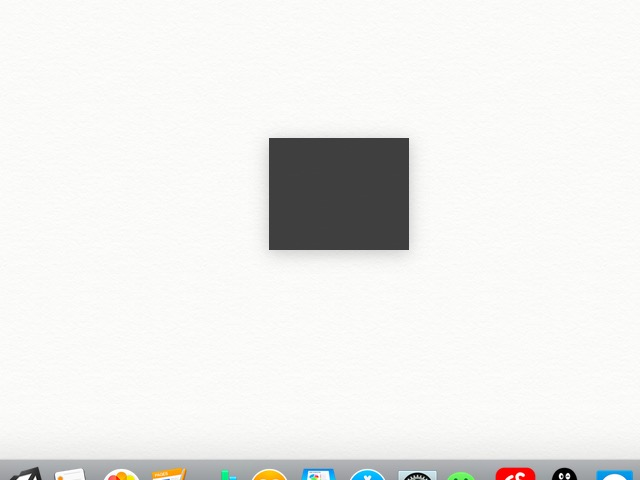
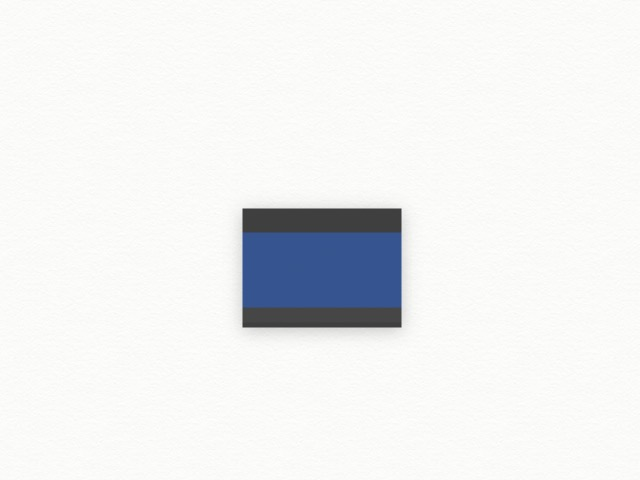
homography estimate

Changed region(s): [[0.375, 0.2812, 0.6562, 0.7188], [0.0, 0.9375, 1.0, 1.0]]

diff --git a/src/main.cpp b/src/main.cpp
@@ -1,31 +1,44 @@
 #include <opencv2/opencv.hpp>
 #include <ceres/ceres.h>
+#include <sophus/se3.hpp>
 
 #include "Viz.h"
 #include "Segment.h"
 #include "PoseEstimate.h"
 #include "Region.h"
+#include "Model.h"
 
 
 using namespace cv;
 using namespace std;
+using namespace Sophus;
 
 int main()
 {
     Mat img = imread("../origin.png");
     imshow("result",img);
 
-    int x_before = 265;
-    int y_before = 135;
-    int l_x_b = 139;
-    int l_y_b = 111;
+    int x_before = 240;
+    int y_before = 200;
+    int l_x_b = 159;
+    int l_y_b = 130;
 
     double initial_pose[2] = {(double)x_before,(double)y_before};
 
+    Model m;
+    m.SetIntrinsic();
+    Matrix4d pv;
+    pv<<    1,0,0,0,
+            0,1,0,0.25,
+            0,0,1,2.9,
+            0,0,0,1;
+    SE3d sse(pv);
+    Mat out0 = img.clone();
+    m.Display(out0,sse);
+    imshow("result1",out0);
 
-    Mat out1 = img.clone();
-    draw(out1,x_before,y_before,l_x_b,l_y_b);
-    imshow("result1",out1);
+
+
 
     Mat mask = Mat::zeros(img.rows,img.cols,CV_8U);
     Rect mm(x_before,y_before,l_x_b,l_y_b);
@@ -45,15 +58,11 @@ int main()
 
     vector<Point> sample_points;// = {{0,0},{l_x_b,0},{0,l_y_b},{l_x_b,l_y_b}};
 
-    vector<Point> temp;
-    BresenhamCircle(10,temp);
-    sample_points.insert(sample_points.end(), temp.begin(),temp.end());
-    BresenhamCircle(Point{l_x_b,0},10,temp);
-    sample_points.insert(sample_points.end(), temp.begin(),temp.end());
-    BresenhamCircle(Point{l_x_b,l_y_b},10,temp);
-    sample_points.insert(sample_points.end(), temp.begin(),temp.end());
-    BresenhamCircle(Point{0,l_y_b},10,temp);
-    sample_points.insert(sample_points.end(), temp.begin(),temp.end());
+    //here is some bp
+    BresenhamCircle(10,sample_points);
+    BresenhamCircle(Point{l_x_b,0},10,sample_points);
+    BresenhamCircle(Point{l_x_b,l_y_b},10,sample_points);
+    BresenhamCircle(Point{0,l_y_b},10,sample_points);
 
     vector<Point2d> lft,rgt;
     lft.emplace_back(0,0);
@@ -68,13 +77,15 @@ int main()
     H = H/H.at<double>(8);
 
 
-//    for (int k = 0; k< 10; ++k)
+//    double n = 100;
+//    for (int k = 0; k< n; ++k)
 //    {
-//        sample_points.emplace_back(0,l_y_b*k/10.0);
-//        sample_points.emplace_back(l_x_b,l_y_b*k/10.0);
-//        sample_points.emplace_back(l_x_b*k/10.0,0);
-//        sample_points.emplace_back(l_x_b*k/10.0,l_y_b);
+//        sample_points.emplace_back(0,l_y_b*k/n);
+//        sample_points.emplace_back(l_x_b,l_y_b*k/n);
+//        sample_points.emplace_back(l_x_b*k/n,0);
+//        sample_points.emplace_back(l_x_b*k/n,l_y_b);
 //    }
+    cout<<sample_points.size()<<endl;
     for(int i=0;i<sample_points.size();i++){
         auto cost_function =
                 new ceres::NumericDiffCostFunction<NumericDiffCostFunctor, ceres::CENTRAL,1,9>(
@@ -89,7 +100,7 @@ int main()
     }
 
     ceres::Solver::Options options;
-    options.minimizer_progress_to_stdout = true;
+//    options.minimizer_progress_to_stdout = true;
     ceres::Solver::Summary summary;
     ceres::Solve(options, &problem, &summary);
 

diff --git a/src/Model.cpp b/src/Model.cpp
@@ -1,0 +1,61 @@
+//
+// Created by flamming on 2018/1/30.
+//
+
+#include "Model.h"
+
+#include <opencv2/core/eigen.hpp>
+
+#include "Viz.h"
+
+using namespace cv;
+using namespace std;
+
+Model::Model()
+{
+    double xl = -0.64;
+    double yt = 0.48;
+    double xr = 0.64;
+    double yb = -0.48;
+    vertex_.emplace_back(xl,yt,1);
+    vertex_.emplace_back(xr,yt,1);
+    vertex_.emplace_back(xr,yb,1);
+    vertex_.emplace_back(xl,yb,1);
+}
+
+void Model::SetIntrinsic() {
+    intrinsic_(0,0)=490.03599;    intrinsic_(0,1)=0;             intrinsic_(0,2)=329.14773;
+    intrinsic_(1,0)=0;             intrinsic_(1,1)=490.06273;    intrinsic_(1,2)=240.90243;
+    intrinsic_(2,0)=0;             intrinsic_(2,1)=0;             intrinsic_(2,2)=1;
+}
+
+void Model::Display(cv::Mat& canvas,Sophus::SE3d pose)
+{
+    Matx44d pose_cv;
+    eigen2cv(pose.matrix(),pose_cv);
+    vector<Point2d> vxv;
+    for(auto v:vertex_)
+    {
+        Vec4d p = pose_cv * cv::Vec4d (v.x,v.y,v.z,1);
+        p = p/p(3);
+        Vec3d pt = Vec3d{p(0),p(1),p(2)};
+        pt = pt/pt(2);
+
+        pt = intrinsic_ * pt;
+        vxv.emplace_back(pt(0),pt(1));
+    }
+    draw(canvas,vxv);
+}
+
+Point2d Model::Project2d(Point3d v,Sophus::SE3d pose)
+{
+    Matx44d pose_cv;
+    eigen2cv(pose.matrix(),pose_cv);
+    Vec4d p = pose_cv * cv::Vec4d (v.x,v.y,v.z,1);
+    p = p/p(3);
+    Vec3d pt = Vec3d{p(0),p(1),p(2)};
+    pt = pt/pt(2);
+
+    pt = intrinsic_ * pt;
+    return {pt(0),pt(1)};
+}

diff --git a/include/Model.h b/include/Model.h
@@ -1,0 +1,26 @@
+//
+// Created by flamming on 2018/1/30.
+//
+#include <opencv2/opencv.hpp>
+#include <sophus/se3.hpp>
+#ifndef HISTOGRAMTRACKER_MODEL_H
+#define HISTOGRAMTRACKER_MODEL_H
+
+class Model
+{
+public:
+    Model();
+    static Model* GetInstance(){
+        static Model* m = new Model;
+        m->SetIntrinsic();
+        return m;
+    }
+    void SetIntrinsic();
+    void Display(cv::Mat& canvas,Sophus::SE3d pose);
+    cv::Point2d Project2d(cv::Point3d vertex,Sophus::SE3d pose);
+
+    cv::Matx33d intrinsic_;
+    std::vector<cv::Point3d> vertex_;
+};
+
+#endif //HISTOGRAMTRACKER_MODEL_H

diff --git a/src/PoseEstimate.cpp b/src/PoseEstimate.cpp
@@ -13,11 +13,15 @@ bool NumericDiffCostFunctor::operator()(const double *vertex, double *residual) 
     residual[0] = 0;
     cv::Matx33d H(vertex);
     H(2,2) = 1;
+    H(0,1) = 0;
+    H(1,0) = 0;
+    H(2,0) = 0;
+    H(2,1) = 0;
 
     auto p = H*Point3d(X_.x,X_.y,1);
 
-    double x = vertex[0] + p.x/p.z;
-    double y = vertex[1] + p.y/p.z;
+    double x = p.x/p.z;
+    double y = p.y/p.z;
     int xf = (int)floor(x);
     int yf = (int)floor(y);
     int xc = (int)ceil(x);
